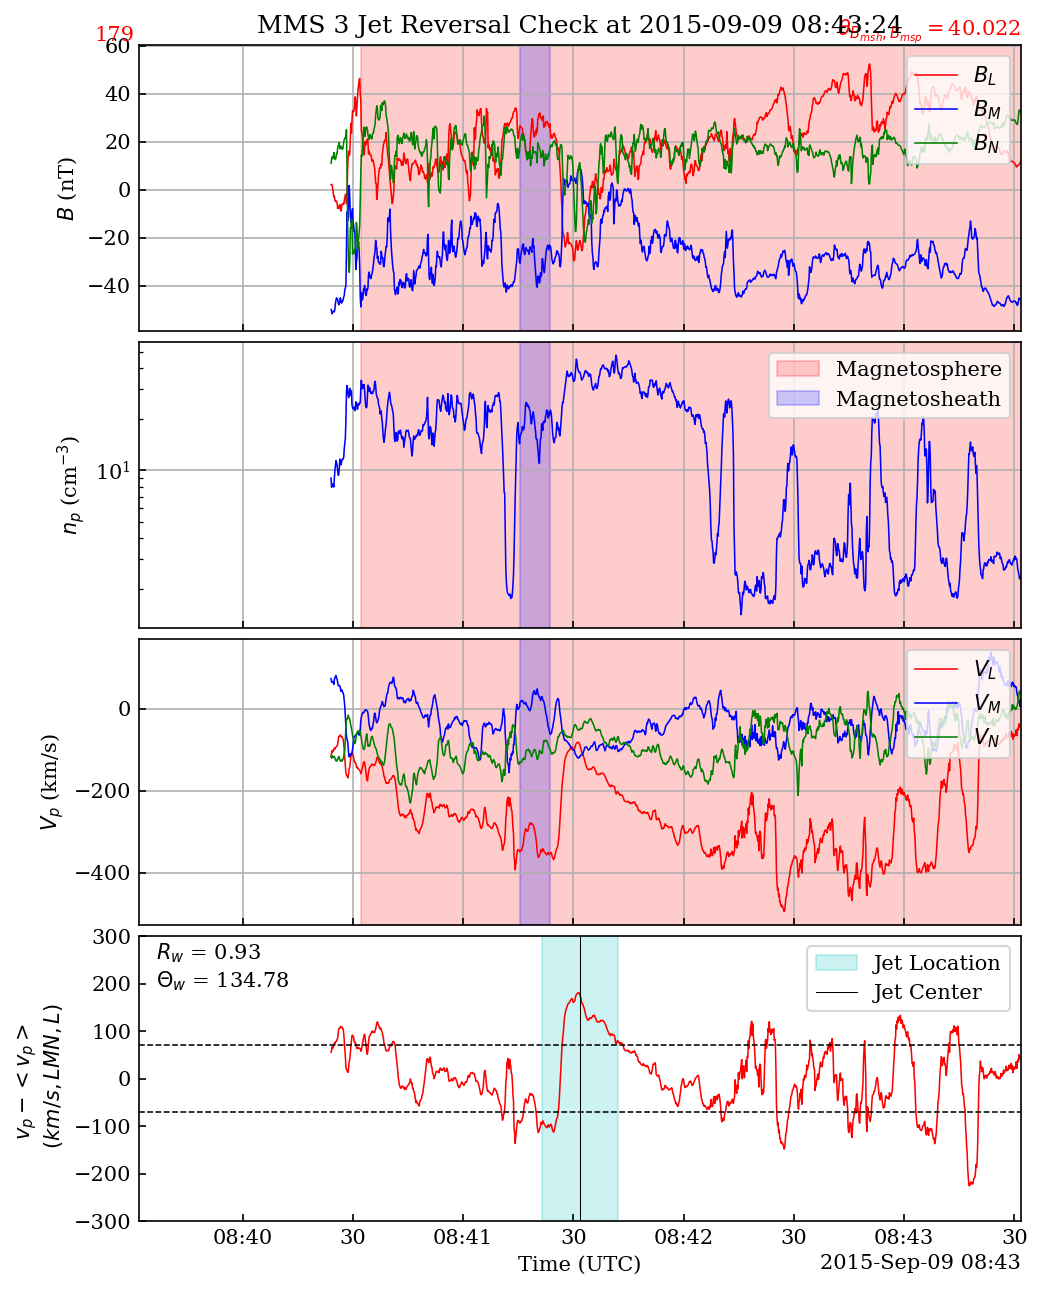
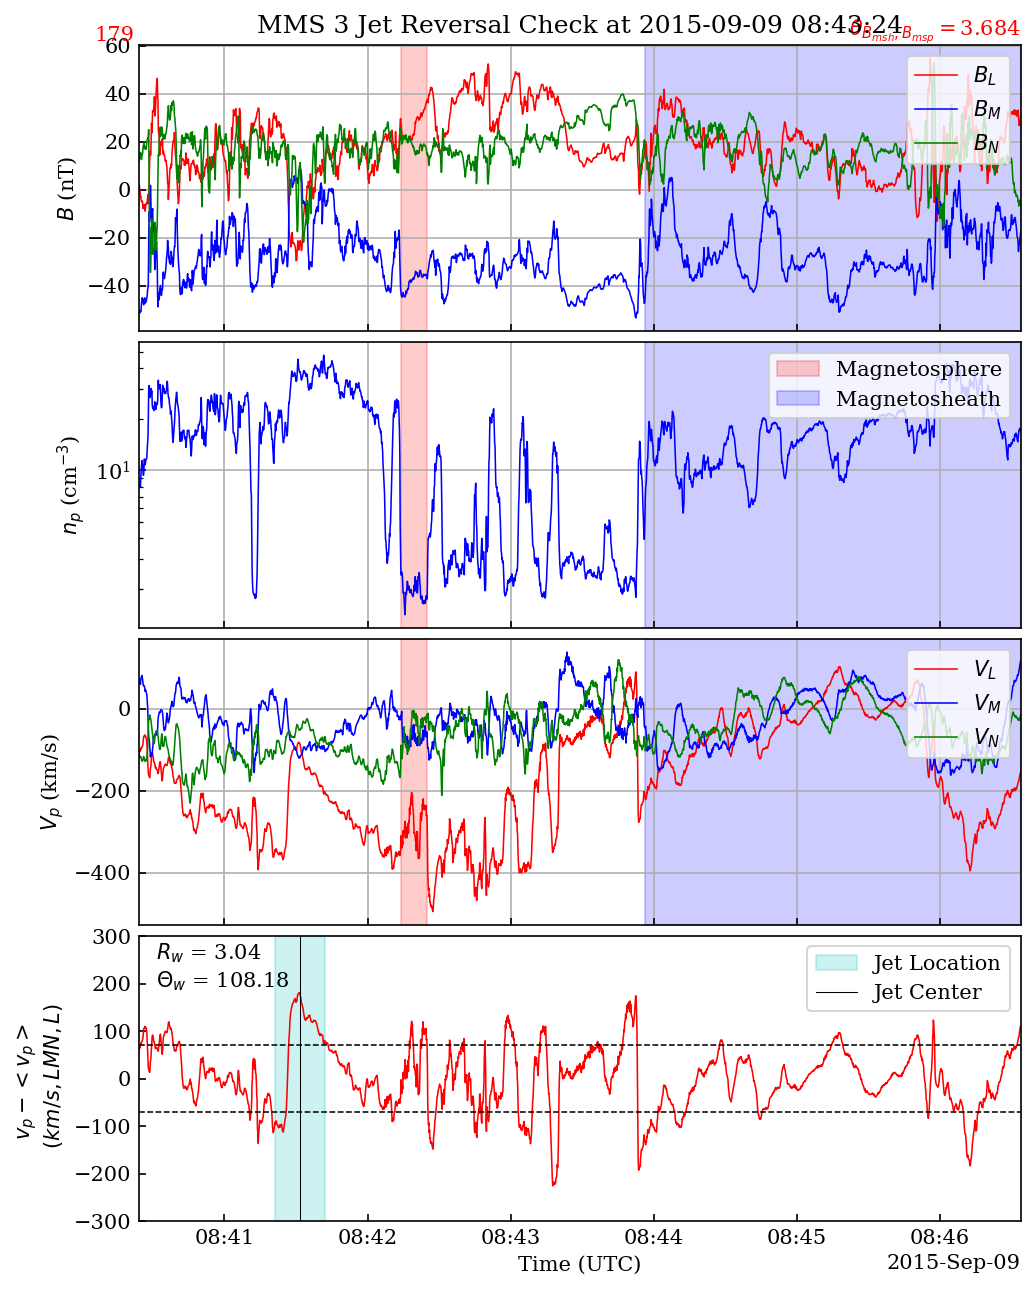
modified:   ../../../codes/jet_reversal_quick_check_function_beta.py 	new file:   ../../../data/mms_jet_reversal_times_list_20221007_beta.csv 	modified:   mms3_jet_reversal_check_20150909_084324_lmn_rolling_median.png 	new file:   ../jet_walen/mms3_jet_reversal_check_20150909_084324_lmn_rolling_medi

diff --git a/codes/jet_reversal_quick_check_function_beta.py b/codes/jet_reversal_quick_check_function_beta.py
@@ -299,15 +299,15 @@ def jet_reversal_check(crossing_time=None, dt=90, probe=3, data_rate='fast', lev
     # sides of the minimum value
     # TODO: Check if threshold value of 3 is fine or if we need to decrease/increase it
     # n_thresh = 3
-    n_thresh_msp = 2
+    n_thresh_msp = 3
     n_thresh_msh = 5
 
     # TODO: Instead of one difference between indices, use the median value of differences between
     # all the indices
     n_points_msp = int(
-        10 / (df_mms_fpi.index[1] - df_mms_fpi.index[0]).total_seconds())
+        3 / (df_mms_fpi.index[1] - df_mms_fpi.index[0]).total_seconds())
     n_points_msh = int(
-        10 / (df_mms_fpi.index[1] - df_mms_fpi.index[0]).total_seconds())
+        3 / (df_mms_fpi.index[1] - df_mms_fpi.index[0]).total_seconds())
     n_points_walen = n_points * 3
 
     # Find an interval of length at least 'n_points_msp_msh' where 'np' is greater than 'n_thresh'
@@ -885,7 +885,8 @@ def jet_reversal_check(crossing_time=None, dt=90, probe=3, data_rate='fast', lev
         #axs[3].set_xlim(df_mms.index[0], df_mms.index[-1])
 
         # Set the x-axis limits to 2 minutes before and after the jet
-        axs[3].set_xlim(jet_center - pd.Timedelta(minutes=2), jet_center + pd.Timedelta(minutes=2))
+        #axs[3].set_xlim(jet_center - pd.Timedelta(minutes=2), jet_center + pd.Timedelta(minutes=2))
+        axs[3].set_xlim(df_mms.index.min(), df_mms.index.max())
 
         # Make a shaded region for all three plots where the magnetopause and magnetosheath
         # are
